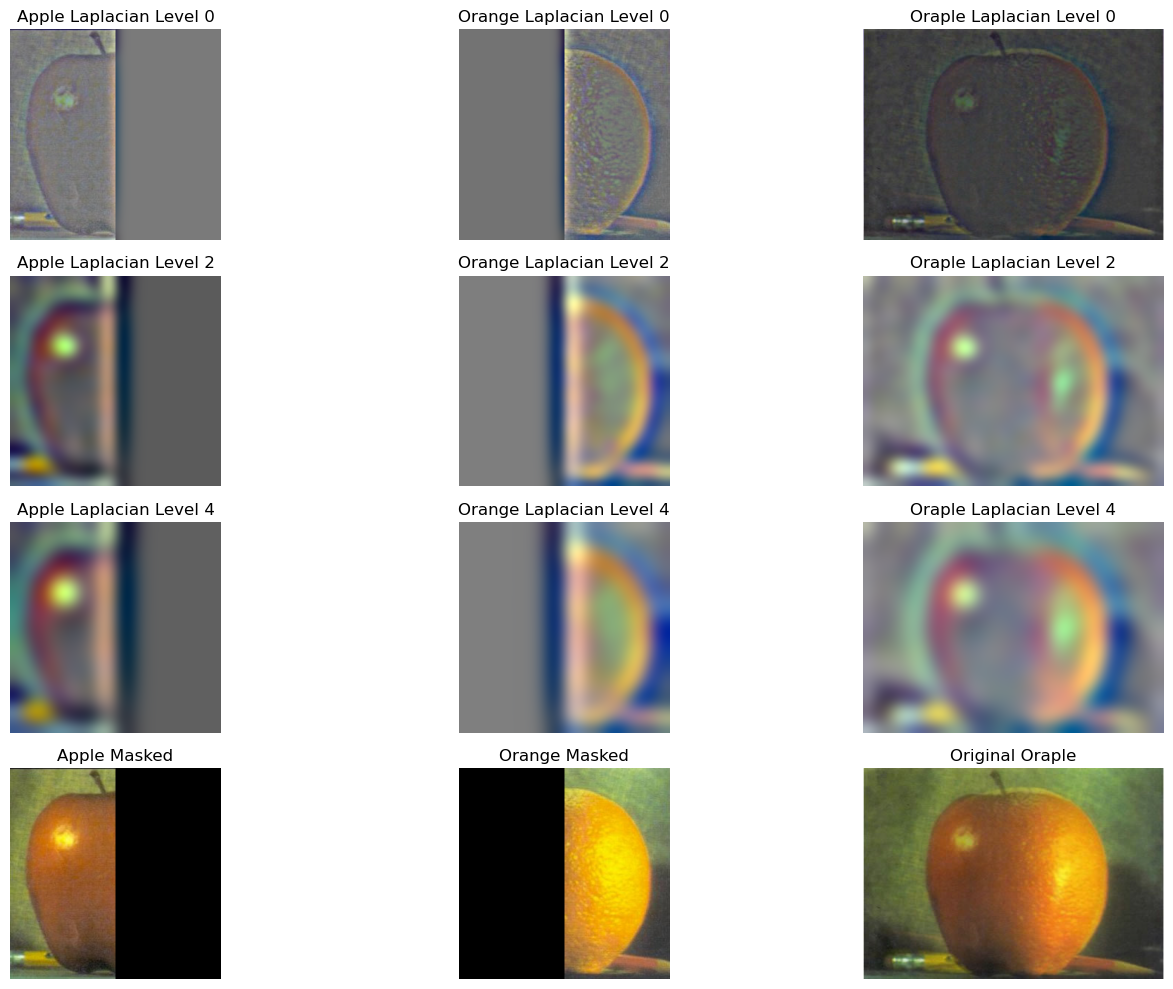
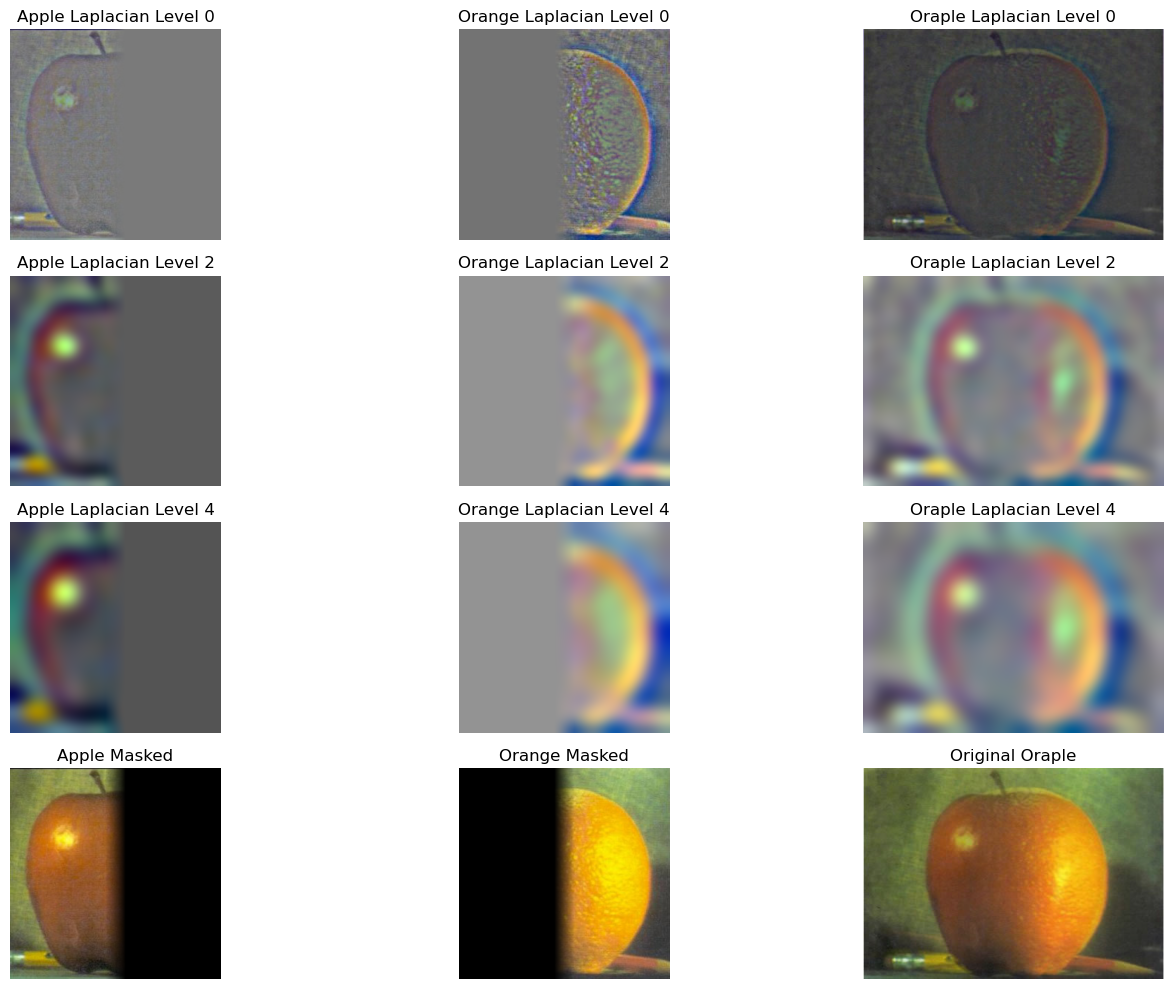
2.3 update

diff --git a/src/pages/Project2.tsx b/src/pages/Project2.tsx
@@ -1759,7 +1759,7 @@ gaussian_2d = gaussian_1d * gaussian_1d.T`}</code></pre>
               <h3 className="text-xl font-semibold text-gray-900 mb-4">Part 2.3: Gaussian and Laplacian Stacks</h3>
               
               <p className="text-gray-700 mb-4">
-                To better understand image decomposition, I implemented <strong>Gaussian and Laplacian stacks</strong>. Unlike pyramids, stacks do not downsample, so all levels stay the same size as the original image.
+                To better understand image decomposition, I implemented Gaussian and Laplacian stacks. Unlike pyramids, stacks do not downsample, so all levels stay the same size as the original image.
               </p>
 
               <div className="space-y-8">
@@ -1813,6 +1813,45 @@ gaussian_2d = gaussian_1d * gaussian_1d.T`}</code></pre>
                     Each Laplacian level captures the <strong>frequency band</strong> that was removed when going from one Gaussian level to the next, effectively creating a <strong>bandpass filter</strong> representation of the image.
                   </p>
                 </div>
+                <div>
+                  <h4 className="text-lg font-semibold text-gray-900 mb-4">Step Mask Implementation</h4>
+                  
+                  <p className="text-gray-700 mb-4">
+                    To blend the apple and orange images, I created a vertical step mask that transitions smoothly from one image to the other. The mask implementation uses a gradual transition zone to avoid harsh boundaries.
+                  </p>
+                  
+                  
+                  
+                  <p className="text-gray-700 mb-4">
+                    The mask starts with value 1 on the left half (selecting the apple) and 0 on the right half (selecting the orange). The key is the <strong>smooth transition zone</strong> in the center, where the mask values gradually change from 1 to 0 using a linear interpolation, serving as a "step function". This creates a seamless blend between the two images rather than a sharp vertical line.
+                  </p>
+                </div>
+
+                
+                
+                  
+                  <div className="mb-6 flex justify-center">
+                    <div 
+                      className="bg-white p-4 rounded-lg border max-w-full cursor-pointer hover:opacity-80 transition-opacity group"
+                      onClick={() => setFullscreenImage('/src/assets/project2/2.3_blending_mask.png')}
+                      title="Click to view fullscreen"
+                    >
+                      <div className="relative">
+                        <img 
+                          src="/src/assets/project2/2.3_blending_mask.png"
+                          alt="Step mask with smooth transition zone for blending apple and orange images"
+                          className="w-full h-auto rounded"
+                        />
+                        <div className="absolute top-2 right-2 opacity-0 group-hover:opacity-100 transition-opacity">
+                          <Maximize2 className="h-4 w-4 text-gray-600" />
+                        </div>
+                      </div>
+                      <p className="text-sm text-gray-600 mt-2 text-center">
+                        Blend mask with 0.05 transition zone around the middle
+                      </p>
+                    </div>
+                  </div>
+                
 
                 <div>
                   <h4 className="text-lg font-semibold text-gray-900 mb-4">Stack Analysis: Apple, Orange, and Oraple</h4>
